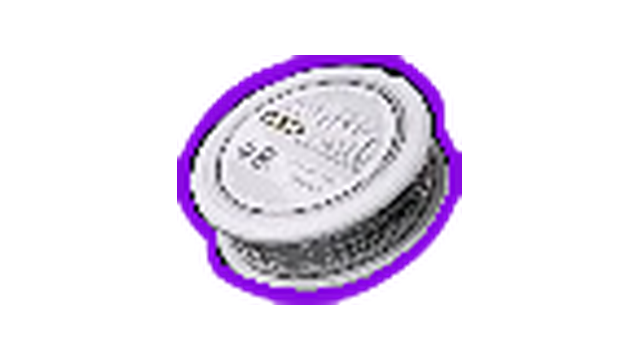
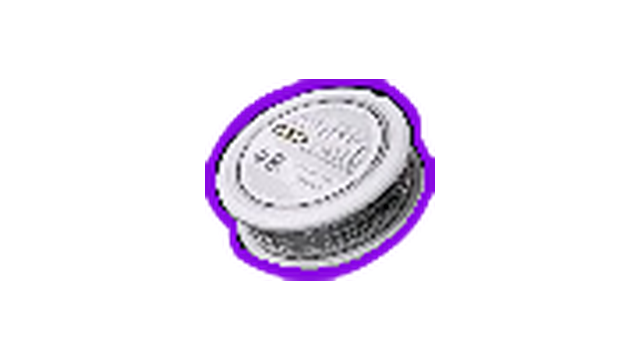
Add padding to fishing line thumbnails

Changed region(s): [[0.25, 0.1528, 0.7188, 0.8556]]

diff --git a/js/data.js b/js/data.js
@@ -850,28 +850,28 @@ const DATA = {
     "lines": [
       {
         "tier": 2,
-        "image": "img/gear/line-t2.png?v=line4",
+        "image": "img/gear/line-t2.png?v=line5",
         "nameEn": "Gray-Label Line",
         "nameKr": "그레이 라벨 낚싯줄",
         "price": 200
       },
       {
         "tier": 3,
-        "image": "img/gear/line-t3.png?v=line4",
+        "image": "img/gear/line-t3.png?v=line5",
         "nameEn": "25 lb Line",
         "nameKr": "25파운드 낚싯줄",
         "price": 400
       },
       {
         "tier": 4,
-        "image": "img/gear/line-t4.png?v=line4",
+        "image": "img/gear/line-t4.png?v=line5",
         "nameEn": "40 lb Line",
         "nameKr": "40파운드 낚싯줄",
         "price": 2300
       },
       {
         "tier": 5,
-        "image": "img/gear/line-t5.png?v=line4",
+        "image": "img/gear/line-t5.png?v=line5",
         "nameEn": "60 lb Line",
         "price": 2700,
         "note": "구매 제한 · 레드 3종 사냥 기준 권장 라인",

diff --git a/index.html b/index.html
@@ -8,7 +8,7 @@
 <meta name="theme-color" content="#050506">
 <link rel="icon" href="img/favicon.ico" sizes="16x16 32x32 48x48">
 <link rel="icon" type="image/png" href="img/favicon-32.png" sizes="32x32">
-<link rel="stylesheet" href="css/style.css?v=image-center1">
+<link rel="stylesheet" href="css/style.css?v=line-fit1">
 </head>
 <body>
 <header class="site-header">
@@ -26,7 +26,7 @@
 <footer class="site-footer">
   <p>델타포스 S11 "재정향" 낚시 콘텐츠 비공식 정리. 인게임 미확인 명칭은 <span class="badge badge-unconfirmed">미확인</span>으로 표시.</p>
 </footer>
-<script src="js/data.js?v=image-center1"></script>
-<script src="js/app.js?v=image-center1"></script>
+<script src="js/data.js?v=line-fit1"></script>
+<script src="js/app.js?v=line-fit1"></script>
 </body>
 </html>

diff --git a/css/style.css b/css/style.css
@@ -870,8 +870,8 @@ a.item-card:hover {
   height: 88%;
 }
 .thumb-line img {
-  width: 82%;
-  height: 82%;
+  width: 78%;
+  height: 78%;
 }
 .thumb-trap img,
 .submit-figure .thumb-trap img {
